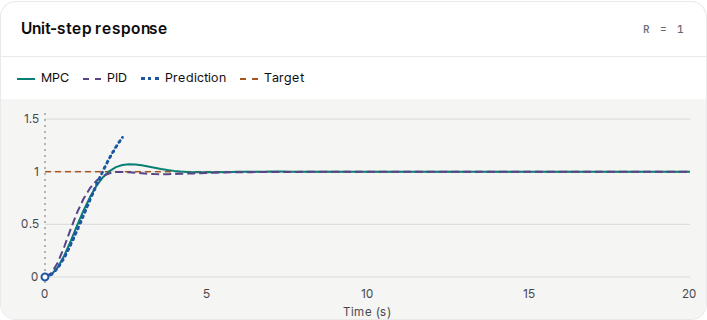
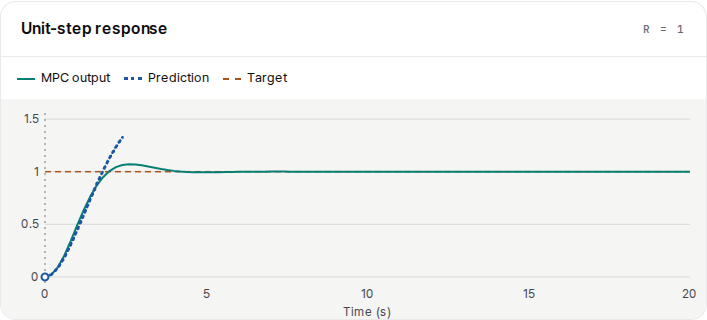
Remove PID overlay from the MPC lab and its previews

Changed region(s): [[0.1556, 0.5312, 0.9646, 0.5625], [0.0934, 0.2188, 0.4356, 0.2812], [0.1245, 0.5625, 0.1556, 0.5938]]

diff --git a/mpc-lti/index.html b/mpc-lti/index.html
@@ -3,7 +3,7 @@
 <head>
   <meta charset="utf-8"><meta name="viewport" content="width=device-width,initial-scale=1">
   <title data-en="MPC control of a second-order LTI system · Control Simulators">2차 LTI 시스템의 MPC 제어 · Control Simulators</title>
-  <meta name="description" content="같은 2차 시스템과 입력 제한에서 모델 예측 제어와 PID의 계단응답을 비교합니다.">
+  <meta name="description" content="2차 시스템에서 MPC의 예측 구간과 입력 한계를 바꾸며 계단응답과 예측 궤적을 살펴봅니다.">
   <link rel="stylesheet" href="../assets/site.css"><link rel="stylesheet" href="../assets/pid-lti.css"><link rel="stylesheet" href="../assets/mpc-lti.css">
   <script type="module" src="../assets/mpc-lti.js"></script>
 </head>
@@ -12,13 +12,13 @@
 <header class="site-header"><a class="brand" href="../" aria-label="Control Simulators 홈"><span class="brand-mark" aria-hidden="true"><img src="../assets/lab-logo.png" alt=""></span><span class="brand-label">CONTROL<br>SIMULATORS</span></a><div class="language-switch" role="group" aria-label="언어 선택"><button type="button" data-lang="ko" aria-pressed="true" lang="ko" disabled>한국어</button><button type="button" data-lang="en" aria-pressed="false" lang="en" disabled>EN</button></div></header>
 <main id="main" class="container pid-lab">
   <a class="back-link" href="../" data-en="← All experiments">← 모든 실험</a>
-  <div class="sim-heading"><div><h1 data-en="MPC control of a second-order LTI system">2차 LTI 시스템의 MPC 제어</h1><p data-en="How far ahead should the controller look? Change the prediction horizon and compare MPC and PID under the same input limit.">얼마나 먼 미래까지 예측해야 할까요? 예측 구간을 바꾸고, 같은 입력 한계에서 MPC와 PID의 응답을 비교하세요.</p></div></div>
+  <div class="sim-heading"><div><h1 data-en="MPC control of a second-order LTI system">2차 LTI 시스템의 MPC 제어</h1><p data-en="Change the prediction horizon and input limit to see how MPC plans its next input and tracks the target.">예측 구간과 입력 한계를 바꾸며 MPC가 다음 입력을 선택하고 목표값을 추종하는 과정을 살펴보세요.</p></div></div>
   <noscript>실험을 조작하려면 JavaScript를 켜세요. 모델과 제어식은 아래에서 확인할 수 있습니다.</noscript>
   <section class="panel plant-panel" aria-labelledby="plant-title"><div class="panel-heading"><h2 id="plant-title" data-en="Second-order plant">2차 시스템 설정</h2><span id="plant-equation">G(s) = 1 / (s² + s + 1)</span></div><div id="plant-controls"></div></section>
   <div class="pid-layout">
     <section class="panel pid-output" id="mpc-response-panel" aria-labelledby="response-title">
       <div class="panel-heading"><h2 id="response-title" data-en="Unit-step response">단위 계단응답</h2><span class="mono">r = 1</span></div>
-      <div class="legend pid-legend mpc-legend"><span class="mpc-key">MPC</span><span class="pid-key" data-pid>PID</span><span class="plan-key" data-en="Prediction">예측 출력</span><span class="ref-key" data-en="Target">목표값</span></div>
+      <div class="legend pid-legend mpc-legend"><span class="mpc-key" data-en="MPC output">MPC 출력</span><span class="plan-key" data-en="Prediction">예측 출력</span><span class="ref-key" data-en="Target">목표값</span></div>
       <svg id="mpc-output-plot" role="img" aria-labelledby="response-title"></svg>
     </section>
     <section class="panel pid-settings" aria-labelledby="settings-title">
@@ -27,7 +27,7 @@
         <div><label for="mpc-horizon" data-en="Prediction horizon N">예측 구간 N</label><output for="mpc-horizon" id="mpc-horizon-value">12</output><input type="range" id="mpc-horizon" min="2" max="30" step="1" value="12"></div>
         <div><label for="mpc-weight" data-en="Move penalty λ">입력 변화 가중치 λ</label><output for="mpc-weight" id="mpc-weight-value">0.25</output><input type="range" id="mpc-weight" min="0.01" max="2" step="0.01" value="0.25"></div>
         <div><label for="mpc-limit" data-en="Input limit |u| ≤">입력 한계 |u| ≤</label><output for="mpc-limit" id="mpc-limit-value">2.00</output><input type="range" id="mpc-limit" min="0.5" max="4" step="0.1" value="2"></div>
-        <label class="mpc-compare"><input type="checkbox" id="compare-pid" checked><span data-en="Overlay PID (same limit)">PID 겹쳐 보기 (같은 입력 한계)</span></label>
+
         <button id="mpc-reset" class="primary" data-en="Reset">초기화</button>
       </div>
     </section>
@@ -38,22 +38,22 @@
     </section>
     <section class="panel pid-terms" aria-labelledby="input-title">
       <div class="panel-heading"><h2 id="input-title" data-en="Applied and planned inputs">적용 입력과 예측 입력</h2><span class="mono">u</span></div>
-      <div class="legend pid-legend mpc-legend"><span class="mpc-key">MPC</span><span class="pid-key" data-pid>PID</span><span class="plan-key" data-en="Planned input">예측 입력</span><span class="ref-key" data-en="Input limits">입력 한계</span></div>
+      <div class="legend pid-legend mpc-legend"><span class="mpc-key" data-en="Applied input">적용 입력</span><span class="plan-key" data-en="Planned input">예측 입력</span><span class="ref-key" data-en="Input limits">입력 한계</span></div>
       <svg id="mpc-input-plot" role="img" aria-labelledby="input-title"></svg>
     </section>
-    <aside class="panel pid-guide"><div class="panel-heading"><h2 data-en="What to compare">비교해 보기</h2></div><ol>
+    <aside class="panel pid-guide"><div class="panel-heading"><h2 data-en="What to observe">관찰 포인트</h2></div><ol>
       <li data-en="Shorten the horizon. Compare the first MPC input and how fast the output approaches 1.">예측 구간을 줄여 첫 MPC 입력과 출력이 목표값 1에 접근하는 속도를 비교하세요.</li>
       <li data-en="Increase λ. How does penalizing changes affect the input steps?">가중치 λ를 높여 보세요. 입력 변화를 더 억제하면 계단 모양의 입력은 어떻게 바뀌나요?</li>
-      <li data-en="Set the input limit to 0.5. Can either controller hold the output at 1?">입력 한계를 0.5로 낮춰 보세요. 두 제어기 중 어느 쪽이 출력 1을 유지할 수 있을까요?</li>
+      <li data-en="Set the input limit to 0.5. Can MPC hold the output at 1 with the selected plant gain?">입력 한계를 0.5로 낮춰 보세요. 현재 시스템 이득에서 MPC가 출력 1을 유지할 수 있을까요?</li>
     </ol></aside>
     <div class="pid-metrics"><div><span data-en="MPC output at 20 s">20초 시점 MPC 출력</span><strong id="mpc-final-y">—</strong></div><div><span data-en="Maximum applied |u| · MPC">MPC 최대 적용 |u|</span><strong id="mpc-peak-u">—</strong></div><div><span data-en="First input of selected plan">선택한 계획의 첫 입력</span><strong id="mpc-first-u">—</strong></div></div>
     <p class="pid-note" id="mpc-limit-hint" role="status"></p>
   </div>
-  <details class="panel pid-model"><summary data-en="Plant, objective and comparison conditions">모델·목적함수·비교 조건</summary><div>
+  <details class="panel pid-model"><summary data-en="Plant, objective and assumptions">모델·목적함수·가정</summary><div>
     <p class="eq">G(s) = Kωₙ² / (s² + 2ζωₙs + ωₙ²)</p><p class="eq">J = Σⱼ₌₁ᴺ (ŷⱼ − 1)² + λ [(u₀ − u₋₁)² + (u₁ − u₀)²]</p>
-    <p data-en="Both controllers start at rest, track the same unit step for 20 s, and use the exact zero-order-hold plant model at a 0.2 s sample period. Position and velocity are known; noise, disturbances and model mismatch are omitted.">두 제어기는 정지 상태에서 같은 단위 계단 입력을 20초간 추종합니다. 샘플 주기는 0.2초이며, 구간마다 입력을 일정하게 유지한 정확 이산 모델을 사용합니다. 위치와 속도를 안다고 가정하고 잡음·외란·모델 오차는 제외했습니다.</p>
+    <p data-en="The plant starts at rest. MPC tracks a unit step for 20 s using an exact zero-order-hold model at a 0.2 s sample period. Position and velocity are known; noise, disturbances and model mismatch are omitted.">시스템은 정지 상태에서 시작하고 MPC는 단위 계단 입력을 20초간 추종합니다. 샘플 주기는 0.2초이며, 구간마다 입력을 일정하게 유지한 정확 이산 모델을 사용합니다. 위치와 속도를 안다고 가정하고 잡음·외란·모델 오차는 제외했습니다.</p>
     <p data-en="At each instant MPC chooses two inputs within the bounds: one for the next interval and a second held for the rest of the prediction horizon. It minimizes the objective above, applies the first input only, and repeats. The last applied input is u₋₁ (initially zero). There is no terminal penalty or terminal constraint.">MPC는 매 시점에서 입력 한계를 만족하는 두 값, 즉 다음 한 구간의 입력과 그 뒤 예측 구간 끝까지 유지할 입력을 선택합니다. 위 목적함수를 최소화한 뒤 첫 입력만 적용합니다. u₋₁은 직전에 적용한 입력이며 초깃값은 0입니다. 종단 비용과 종단 제약은 없습니다.</p>
-    <p data-en="The PID comparison uses Kp = 4, Ki = 2, Kd = 2, derivative on measured velocity and conditional integration to limit windup. Unlike the continuous PID lab, this comparison uses sampled control and the same actuator limit as MPC.">비교용 PID는 Kp = 4, Ki = 2, Kd = 2이며, 측정 속도에 미분항을 적용하고 조건부 적분으로 포화 시 적분 누적을 제한합니다. 연속시간 PID 단독 실험과 달리 여기서는 MPC와 같은 샘플 주기와 입력 한계를 적용합니다.</p>
+
   </div></details>
   <p class="pid-source"><a href="../pid-lti/" id="pid-lab-link" data-en="Explore the P, I and D terms →">P·I·D 항별 효과 실험 →</a></p>
   <p class="pid-source"><a href="https://www.mathworks.com/help/mpc/gs/what-is-mpc.html" rel="noopener noreferrer" target="_blank" data-en="Related MATLAB tutorial: What Is Model Predictive Control? ↗">관련 MATLAB 자료: What Is Model Predictive Control? ↗</a></p>

diff --git a/assets/mpc-lti.js b/assets/mpc-lti.js
@@ -15,8 +15,8 @@ function element(tag,attrs,text){
   const e=document.createElementNS(svgNS,tag);for(const [k,v] of Object.entries(attrs))e.setAttribute(k,v);
   if(text!==undefined)e.textContent=text;return e;
 }
-const colors={y:'#087f74',u:'#087f74',pid:'#594488',prediction:'#1d56a3',ref:'#a8551d'};
-const dashes={pid:'8 4',prediction:'2 4',ref:'6 4'};
+const colors={y:'#087f74',u:'#087f74',prediction:'#1d56a3',ref:'#a8551d'};
+const dashes={prediction:'2 4',ref:'6 4'};
 
 function chart(key,step,series,ref,maxTime,selectedTime){
   const svg=$(`mpc-${key}-plot`),w=svg.clientWidth,h=svg.clientHeight;
@@ -47,17 +47,12 @@ function chart(key,step,series,ref,maxTime,selectedTime){
 }
 function draw(){
   if(!run)return;
-  const k=num('time'),{samples,pidSamples,plans}=run,plan=plans[k],t=samples[k].t;
+  const k=num('time'),{samples,plans}=run,plan=plans[k],t=samples[k].t;
   const ts=samples[1].t-samples[0].t,tf=t+ts*plan.u.length,maxTime=Math.max(samples.at(-1).t,Math.ceil(tf/5)*5);
-  const showPID=$('compare-pid').checked;
-  for(const el of document.querySelectorAll('[data-pid]'))el.hidden=!showPID;
   function lines(key){
-    const points=source=>source.map(s=>({t:s.t,v:s[key]}));
-    const series=[{name:key,points:points(samples)}];
-    if(showPID)series.push({name:'pid',points:points(pidSamples)});
     const pred=plan[key].map((v,j)=>({t:t+j*ts,v}));
     if(key==='u')pred.push({t:tf,v:pred.at(-1).v});
-    series.push({name:'prediction',points:pred});return series;
+    return [{name:key,points:samples.map(s=>({t:s.t,v:s[key]}))},{name:'prediction',points:pred}];
   }
   chart('output',false,lines('y'),[1],maxTime,t);
   chart('input',true,lines('u'),[-num('limit'),num('limit')],maxTime,t);
@@ -75,18 +70,18 @@ function simulate(){
   $('mpc-peak-u').textContent=Math.max(...run.samples.map(s=>Math.abs(s.u))).toFixed(2);
   const required=1/plant.gain,need=Number(required.toFixed(3));
   $('mpc-limit-hint').textContent=num('limit')*plant.gain<1-1e-12
-    ?tr(`목표 유지 불가: 출력 1을 유지하는 데 필요한 입력(1/K ≈ ${need})이 입력 한계보다 큽니다.`,`The controllers cannot hold the target: the required input (1/K ≈ ${need}) exceeds the limit.`)
+    ?tr(`목표 유지 불가: 출력 1을 유지하는 데 필요한 입력(1/K ≈ ${need})이 입력 한계보다 큽니다.`,`MPC cannot hold the target: the required input (1/K ≈ ${need}) exceeds the limit.`)
     :tr(`출력 1을 유지하는 데 필요한 입력(1/K ≈ ${need})은 입력 한계 안에 있습니다.`,`The input required to hold the target (1/K ≈ ${need}) is within the selected limit.`);
   draw();
 }
 function localize(){
   for(const [el,ko] of textBindings)el.textContent=tr(ko,el.dataset.en);
-  document.querySelector('meta[name=description]').content=tr('같은 2차 시스템과 입력 제한에서 모델 예측 제어와 PID의 계단응답을 비교합니다.','Compare the MPC and PID step responses on the same second-order plant under identical input limits.');
+  document.querySelector('meta[name=description]').content=tr('2차 시스템에서 MPC의 예측 구간과 입력 한계를 바꾸며 계단응답과 예측 궤적을 살펴봅니다.','Explore the MPC step response and predicted trajectory of a second-order system by varying the prediction horizon and input limit.');
   simulate();
 }
 for(const key of optionKeys)input(key).addEventListener('input',simulate);
-input('time').addEventListener('input',draw);$('compare-pid').addEventListener('change',draw);
-$('mpc-reset').addEventListener('click',()=>{for(const key of [...optionKeys,'time'])input(key).value=input(key).defaultValue;plantUI.reset();$('compare-pid').checked=true;simulate();});
+input('time').addEventListener('input',draw);
+$('mpc-reset').addEventListener('click',()=>{for(const key of [...optionKeys,'time'])input(key).value=input(key).defaultValue;plantUI.reset();simulate();});
 document.addEventListener('icar:lang',localize);setupLanguage();
 for(const button of document.querySelectorAll('.language-switch button'))button.disabled=false;
 const resize=new ResizeObserver(draw);for(const id of ['mpc-output-plot','mpc-input-plot'])resize.observe($(id));

diff --git a/pid-lti/index.html b/pid-lti/index.html
@@ -13,7 +13,7 @@
 <section class="pid-metrics" aria-label="응답 지표" data-en-aria="Response metrics"><div><span data-en="Steady-state error e∞">정상상태 오차 e∞</span><strong id="steady-error">—</strong></div><div><span data-en="Output at 20 s">20초 시점 출력</span><strong id="end-value">—</strong></div><div><span data-en="Peak above target¹">목표값 초과율¹</span><strong id="peak-value">—</strong></div><div><span data-en="Closed-loop stability">폐루프 안정성</span><strong id="stability">—</strong></div></section><p class="pid-note" data-en="¹ Maximum percentage above the unit target within the 20 s window, not relative to the final output. The steady-state error is calculated analytically.">¹ 20초 동안 목표값 1을 초과한 최대 비율입니다. 최종 출력 대비 오버슈트와는 다릅니다. 정상상태 오차는 이론값입니다.</p>
 <section class="panel pid-terms" aria-labelledby="terms-title"><div class="panel-heading"><h2 id="terms-title" data-en="Control effort by term">항별 제어입력</h2><span class="mono">u = P + I + D</span></div><div class="legend pid-legend"><span class="p-key">P</span><span class="i-key">I</span><span class="d-key">D</span><span class="sum-key" data-en="Total u">합계 u</span></div><svg id="pid-terms-plot" role="img" aria-label="비례·적분·미분 입력과 총 제어입력" data-en-aria="Proportional, integral, derivative and total control effort"></svg></section>
 <aside class="panel pid-guide"><div class="panel-heading"><h2 data-en="What to compare">비교해 보기</h2></div><ol><li data-en="With P alone, increase Kp and compare the rise speed and steady-state error.">P만 켠 채 Kp를 높여 상승 속도와 정상상태 오차를 비교하세요.</li><li data-en="Pin the P response, then enable I. Under stable settings, watch the remaining error disappear.">P 응답을 고정한 뒤 I를 켜세요. 안정한 조건에서 남던 오차가 어떻게 사라지는지 보세요.</li><li data-en="Add D to the initial P settings. Compare the oscillations and the final values of the two responses.">기본 P 설정에서 D만 추가하세요. 두 응답의 진동과 최종값을 비교하세요.</li></ol></aside></div>
-<p class="pid-source"><a id="mpc-lab-link" href="../mpc-lti/" data-en="Compare MPC and PID on the same plant →">같은 시스템에서 MPC와 PID 비교하기 →</a></p>
+<p class="pid-source"><a id="mpc-lab-link" href="../mpc-lti/" data-en="Explore MPC on the same plant →">같은 시스템에서 MPC 실험하기 →</a></p>
 <details class="panel pid-model"><summary data-en="Plant, controller and assumptions">모델·제어식·가정</summary><div>
 <p class="eq">G(s) = b / (s² + a₁s + a₀),　b = Kωₙ²,　a₁ = 2ζωₙ,　a₀ = ωₙ²</p>
 <p class="eq">u = Kp e + Ki ∫ e dt − Kd ẏ,　e = r − y</p>

diff --git a/tests/tunable-lti.spec.js b/tests/tunable-lti.spec.js
@@ -9,15 +9,15 @@ for(const id of ['pid-lti','mpc-lti'])test(`${id}: language choice is available 
 });
 const set=(page,id,val)=>page.locator('#plant-'+id).evaluate((n,v)=>{n.value=v;n.dispatchEvent(new Event('input',{bubbles:true}));},String(val));
 const curve=(p,key,id)=>p.locator(`#${id}-output-plot [data-series=${key}]`).getAttribute('d');
-test('tuning all three plant parameters changes PID and the MPC comparison carries the same plant both ways',async({page})=>{
+test('tuning all three plant parameters changes PID and the MPC lab carries the same plant both ways',async({page})=>{
  await page.goto(base+'pid-lti/?lang=ko');await expect(page.locator('#plant-wn')).toBeVisible({timeout:2000});
  const baseY=await curve(page,'y','pid');await page.locator('#pin-response').click();await set(page,'wn',2);const fast=await curve(page,'y','pid');expect(fast===baseY).toBe(false);
  await set(page,'zeta',1);expect(await curve(page,'y','pid')===fast).toBe(false);await set(page,'gain',.5);await expect(page.locator('#steady-error')).toHaveText('0.333');
  await expect(page.locator('#pin-info')).toContainText('K=1');await expect(page.locator('#plant-equation')).toContainText('2 / (s² + 4s + 4)');
  await page.locator('#mpc-lab-link').click();await expect(page.locator('#plant-wn')).toHaveValue('2');await expect(page.locator('#plant-zeta')).toHaveValue('1');await expect(page.locator('#plant-gain')).toHaveValue('0.5');
  await page.locator('[data-lang=en]').click();await page.locator('#mpc-limit').focus();await page.keyboard.press('Home');await expect(page.locator('#mpc-limit-hint')).toContainText('cannot hold');
- const m=await curve(page,'y','mpc'),p=await curve(page,'pid','mpc');await set(page,'gain',2);await expect(page.locator('#mpc-limit-hint')).toContainText('within');
- expect(await curve(page,'y','mpc')===m).toBe(false);expect(await curve(page,'pid','mpc')===p).toBe(false);
+ const m=await curve(page,'y','mpc'),p=await curve(page,'prediction','mpc');await set(page,'gain',2);await expect(page.locator('#mpc-limit-hint')).toContainText('within');
+ expect(await curve(page,'y','mpc')).not.toBe(m);expect(await curve(page,'prediction','mpc')).not.toBe(p);
  await page.reload();await expect(page.locator('#plant-gain')).toHaveValue('2');await page.locator('#pid-lab-link').click();await expect(page.locator('#steady-error')).toHaveText('0.111');
  await page.locator('#pid-reset').click();await expect(page.locator('#plant-wn')).toHaveValue('1');await expect(page.locator('#plant-zeta')).toHaveValue('0.5');await expect(page.locator('#plant-gain')).toHaveValue('1');await expect(page.locator('#steady-error')).toHaveText('0.200');
 });

diff --git a/assets/catalog.js b/assets/catalog.js
@@ -23,7 +23,7 @@ const entries = [
   ['rocket-landing','로켓 수직 착륙','Rocket landing','항공','두 엔진의 추력으로 자세와 하강 속도를 조절해 착륙합니다.',['착륙 위치','하강 속도','속도 외란'],'https://www.mathworks.com/help/mpc/ug/landing-rocket-with-mpc-example.html','MathWorks 공식 예제'],
   ['aircraft-pitch','항공기 피치 제어','Aircraft pitch','항공','승강타 입력으로 항공기 피치각을 조절하는 실험입니다.',['목표 피치각','제어 이득'],'https://www.mathworks.com/matlabcentral/fileexchange/40798-aircraft-pitch-control','MATLAB File Exchange'],
   ['pid-lti','2차 LTI 시스템의 PID 제어','PID control of a second-order LTI system','제어 기초','같은 2차 선형 시불변(LTI) 시스템에서 P·I·D 항을 하나씩 바꾸며 단위 계단 응답과 정상상태 오차를 비교합니다.',['P·I·D 항 선택','PID 이득','기준 응답 고정'],'https://ctms.engin.umich.edu/CTMS/?example=Introduction&section=ControlPID','CTMS','graph'],
-  ['mpc-lti','2차 LTI 시스템의 MPC 제어','MPC control of a second-order LTI system','제어 기초','모델 예측 제어(MPC)의 예측 구간과 입력 제한을 바꾸며 같은 2차 LTI 시스템에서 MPC와 PID의 목표 추종 응답을 비교합니다.',['예측 구간','입력 변화 가중치','입력 제한','PID 응답 비교'],'https://www.mathworks.com/help/mpc/gs/what-is-mpc.html','MathWorks','graph']
+  ['mpc-lti','2차 LTI 시스템의 MPC 제어','MPC control of a second-order LTI system','제어 기초','예측 구간과 입력 제한을 바꾸며 2차 시스템의 MPC 계단응답과 각 시점의 예측 궤적을 살펴봅니다.',['예측 구간','입력 변화 가중치','입력 제한','예측 궤적'],'https://www.mathworks.com/help/mpc/gs/what-is-mpc.html','MathWorks','graph']
 ];
 const research = (id, name, english, sim, description, features) => ({id,name,english,category:'로보틱스',description,features,sourceName:'연구 시뮬레이션',status:'ready',external:true,href:`https://icarlaboratory.github.io/research.html?sim=${sim}&lang=ko#interactive`,source:`https://icarlaboratory.github.io/research.html?sim=${sim}&lang=ko#interactive`});
 export const catalog = entries.map(([id,name,english,category,description,features,source,sourceName,view='apparatus']) => ({id,name,english,category,description,features,source,sourceName,view,status:'ready',external:false,href:`${id}/`})).concat([

diff --git a/tests/mpc-lti.spec.js b/tests/mpc-lti.spec.js
@@ -6,16 +6,18 @@ const set=(page,id,value)=>page.locator(`#mpc-${id}`).evaluate((e,v)=>{e.value=v
 test('MPC settings change the closed loop; the time cursor inspects a plan without changing the run',async({page})=>{
   const errors=[];page.on('pageerror',e=>errors.push(e.message));
   expect((await page.goto(`${base}mpc-lti/?lang=ko`)).status()).toBe(200);
-  const y=await path(page,'y'),pid=await path(page,'pid');expect(y).not.toBe(pid);
+  const y=await path(page,'y');
+  const pidOverlay=page.locator('#compare-pid, [data-pid], path[data-series="pid"]');
+  await expect(pidOverlay).toHaveCount(0);
+  await expect(page.locator('#mpc-input-plot path[data-series="u"]')).toBeVisible();
   const pred=await path(page,'prediction');await page.locator('#mpc-time').focus();await page.keyboard.press('ArrowRight');
   expect(await path(page,'prediction')).not.toBe(pred);expect(await path(page,'y')).toBe(y);
-  await set(page,'horizon',4);const short=await path(page,'y');expect(short).not.toBe(y);expect(await path(page,'pid')).toBe(pid);
+  await set(page,'horizon',4);const short=await path(page,'y');expect(short).not.toBe(y);
   await set(page,'weight',2);expect(await path(page,'y')).not.toBe(short);
-  await page.locator('#compare-pid').uncheck();await expect(page.locator('path[data-series="pid"]')).toHaveCount(0);
-  await page.locator('#mpc-reset').click();await expect(page.locator('#compare-pid')).toBeChecked();expect(await path(page,'y')).toBe(y);expect(await path(page,'prediction')).toBe(pred);expect(errors).toEqual([]);
+  await page.locator('#mpc-reset').click();await expect(pidOverlay).toHaveCount(0);expect(await path(page,'y')).toBe(y);expect(await path(page,'prediction')).toBe(pred);expect(errors).toEqual([]);
 });
 
-test('both controllers obey the same low limit and keep the inspected plan across language changes on mobile',async({page})=>{
+test('MPC obeys the input limit and keeps the inspected plan across language changes on mobile',async({page})=>{
   await page.setViewportSize({width:320,height:812});await page.goto(`${base}mpc-lti/?lang=en`);
   await set(page,'limit',.5);await set(page,'time',99);await set(page,'horizon',30);
   await expect(page.locator('#mpc-peak-u')).toHaveText('0.50');expect(Number(await page.locator('#mpc-final-y').textContent())).toBeLessThan(.51);

diff --git a/assets/translations.js b/assets/translations.js
@@ -2,8 +2,8 @@
 export const english = {
  '제어 기초':'Control fundamentals',
  '2차 LTI 시스템의 MPC 제어':'MPC control of a second-order LTI system',
- '모델 예측 제어(MPC)의 예측 구간과 입력 제한을 바꾸며 같은 2차 LTI 시스템에서 MPC와 PID의 목표 추종 응답을 비교합니다.':'Adjust the prediction horizon and input limit in model predictive control (MPC), and compare MPC and PID tracking responses for the same second-order LTI system.',
- '예측 구간':'Prediction horizon','입력 변화 가중치':'Input move weight','PID 응답 비교':'Compare PID response',
+ '예측 구간과 입력 제한을 바꾸며 2차 시스템의 MPC 계단응답과 각 시점의 예측 궤적을 살펴봅니다.':'Adjust the prediction horizon and input limit to explore the MPC step response and the trajectory predicted at each planning instant.',
+ '예측 구간':'Prediction horizon','입력 변화 가중치':'Input move weight','예측 궤적':'Predicted trajectory',
  '2차 LTI 시스템의 PID 제어':'PID control of a second-order LTI system',
  '같은 2차 선형 시불변(LTI) 시스템에서 P·I·D 항을 하나씩 바꾸며 단위 계단 응답과 정상상태 오차를 비교합니다.':'Change the P, I and D terms one at a time to compare unit-step responses and steady-state error for the same second-order linear time-invariant (LTI) system.',
  'P·I·D 항 선택':'P/I/D term selection','기준 응답 고정':'Pin baseline response',

diff --git a/assets/mpc-lti.css b/assets/mpc-lti.css
@@ -2,14 +2,13 @@
 .mpc-settings > div { display: grid; grid-template-columns: minmax(0,1fr) auto; gap: 4px 8px; align-items: baseline; border-bottom: 1px solid var(--line-soft); padding: 6px 0; }
 .mpc-settings input[type=range], .mpc-scrubber input { width: 100%; height: 26px; grid-column: 1 / -1; margin: 0; accent-color: var(--actual); }
 .mpc-settings output, .mpc-scrubber output { font-variant-numeric: tabular-nums; font-weight: 600; }
-.mpc-compare { display: flex; align-items: center; gap: 8px; min-height: 44px; cursor: pointer; }
-.mpc-compare input { width: 18px; height: 18px; margin: 0; accent-color: var(--ink); }
+
 .mpc-scrubber { grid-column: 1 / -1; padding: 12px 18px; }
 .mpc-scrubber div { display: flex; align-items: baseline; gap: 5px 10px; flex-wrap: wrap; }
 .mpc-scrubber h2 { font-size: 1rem; margin-right: auto; }
 .mpc-scrubber p, .mpc-scrubber label { font-size: 14px; color: var(--muted); }
 .mpc-legend .mpc-key::before { border-color: #087f74; }
-.mpc-legend .pid-key::before { border-top: 2px dashed #594488; }
+
 .mpc-legend .plan-key::before { border-top: 3px dotted #1d56a3; }
 .mpc-legend .ref-key::before { border-top: 2px dashed #a8551d; }
 @media(max-width:780px) { .mpc-settings > div { grid-template-columns: minmax(0,1fr) auto; } }

diff --git a/tests/catalog-previews.spec.js b/tests/catalog-previews.spec.js
@@ -26,13 +26,13 @@ for (const lang of ['ko', 'en']) test(`graph preview compares PI with a pinned P
  expect(new Set(curves).size).toBe(2);
 });
 
-for (const lang of ['ko','en']) test(`MPC preview includes the response, PID comparison and prediction (${lang})`, async ({page}) => {
+for (const lang of ['ko','en']) test(`MPC preview shows the response and prediction without a PID overlay (${lang})`, async ({page}) => {
  await page.goto(`${base}mpc-lti/?lang=${lang}`);
  const panel = await prepareGraphPreview(page,'mpc-lti');
  await expect(panel).toHaveAttribute('id','mpc-response-panel');
  await expect(panel.getByRole('heading')).toHaveText(lang === 'ko' ? '단위 계단응답' : 'Unit-step response');
- await expect(page.locator('#compare-pid')).toBeChecked();
- for (const series of ['y','pid','prediction']) {
+ await expect(panel.locator('[data-series="pid"], [data-pid]')).toHaveCount(0);
+ for (const series of ['y','prediction']) {
   const path=panel.locator(`#mpc-output-plot path[data-series="${series}"]`);
   await expect(path).toBeVisible();
   await expect(path).toHaveAttribute('d',/\S/);

diff --git a/tests/playback-preference.spec.js b/tests/playback-preference.spec.js
@@ -29,10 +29,10 @@ test('the PID graph lab has term switches rather than playback or camera control
  await expect(page.locator('#start-pause, #apparatus, .playback-preference')).toHaveCount(0);
  await expect(page.locator('#pid-output-plot path[data-series="y"]')).toBeVisible();
 });
-test('the MPC graph lab compares PID without playback, camera or pin controls',async({page})=>{
+test('the MPC graph lab shows its prediction without PID, playback, camera or pin controls',async({page})=>{
  await page.goto(base+'mpc-lti/');
- await expect(page.locator('#compare-pid')).toBeChecked();
- await expect(page.locator('#mpc-output-plot path[data-series="pid"]')).toBeVisible();
+ await expect(page.locator('#compare-pid')).toHaveCount(0);
+ await expect(page.locator('#mpc-output-plot path[data-series="prediction"]')).toBeVisible();
  await expect(page.locator('#start-pause, #apparatus, .three-reset, .playback-preference, #pin-response')).toHaveCount(0);
 });
 test('dashboard does not get a simulation playback control',async({page})=>{
